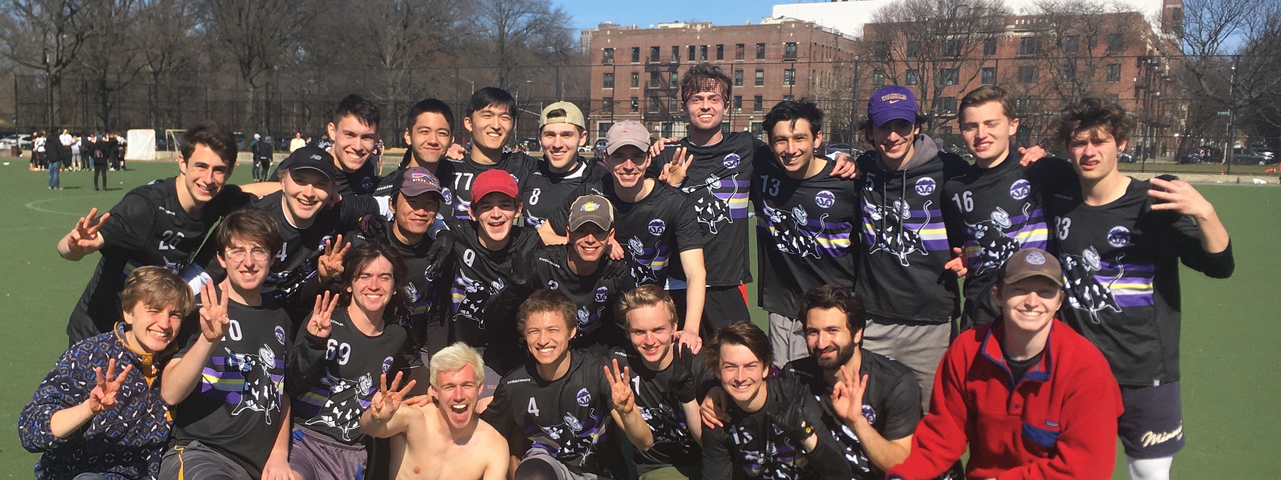
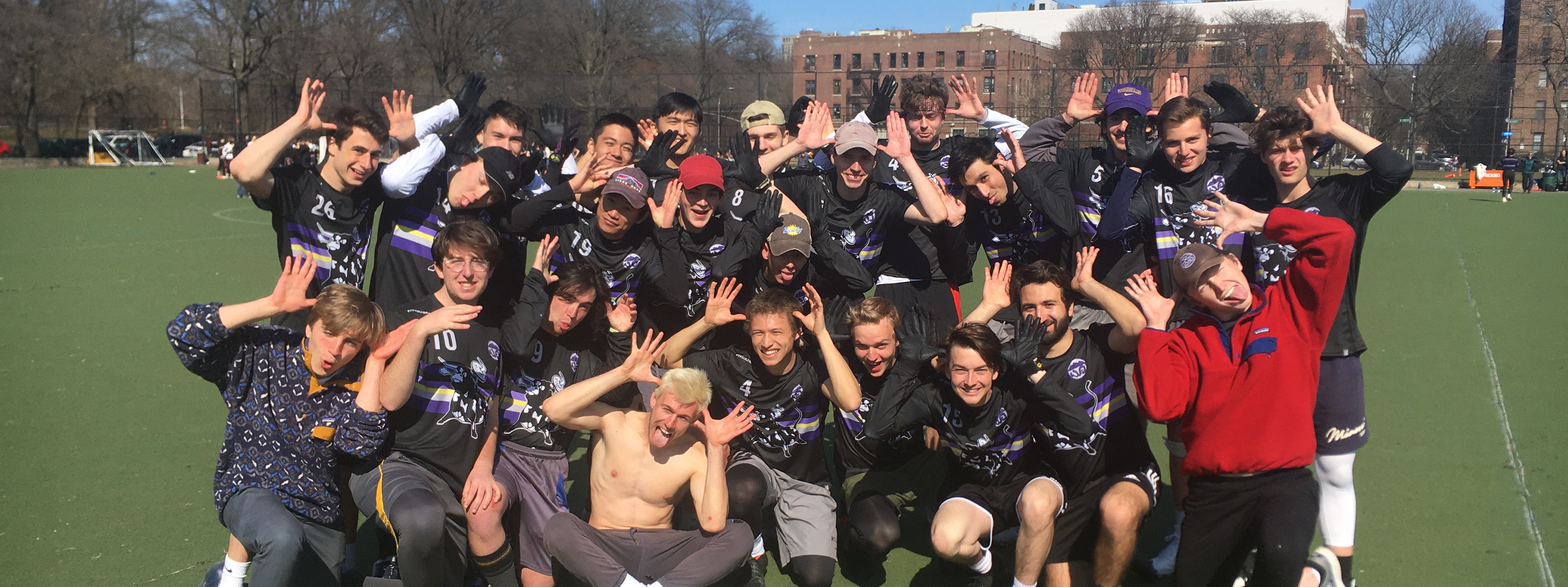
added better quality main group pic for wufo

diff --git a/docs/pages/wufo.html b/docs/pages/wufo.html
@@ -49,10 +49,13 @@
     <div id="photos" class="carousel slide" data-ride="carousel" data-interval="4000">
 
       <div class="carousel-inner">
+        <div class="carousel-item active">
+          <img src="../assets/wufopics/carousel/one.jpg" alt="1" class="img-fluid">
+        </div>
         <div class="carousel-item">
           <img src="../assets/wufopics/carousel/two.jpeg" alt="2" class="img-fluid">
         </div>
-        <div class="carousel-item active">
+        <div class="carousel-item">
           <img src="../assets/wufopics/carousel/three.JPG" alt="3" class="img-fluid">
         </div>
         <div class="carousel-item">

diff --git a/docs/index.html b/docs/index.html
@@ -47,7 +47,7 @@
         <div class="row justify-content-center mt-3">
           <div class="col-sm-6 text-center mb-3">
             <a href="pages/wufo">
-              <img src="assets/wufopics/wufoteam2.JPG" alt="WUFO" width="85%" class="img-fluid rounded">
+              <img src="assets/wufopics/wufoteam.jpg" alt="WUFO" width="85%" class="img-fluid rounded">
             </a>
             <h3 class="mt-3"><a href="pages/wufo" class="team-name">WUFO</a></h3>
             <a href="pages/wufo">
